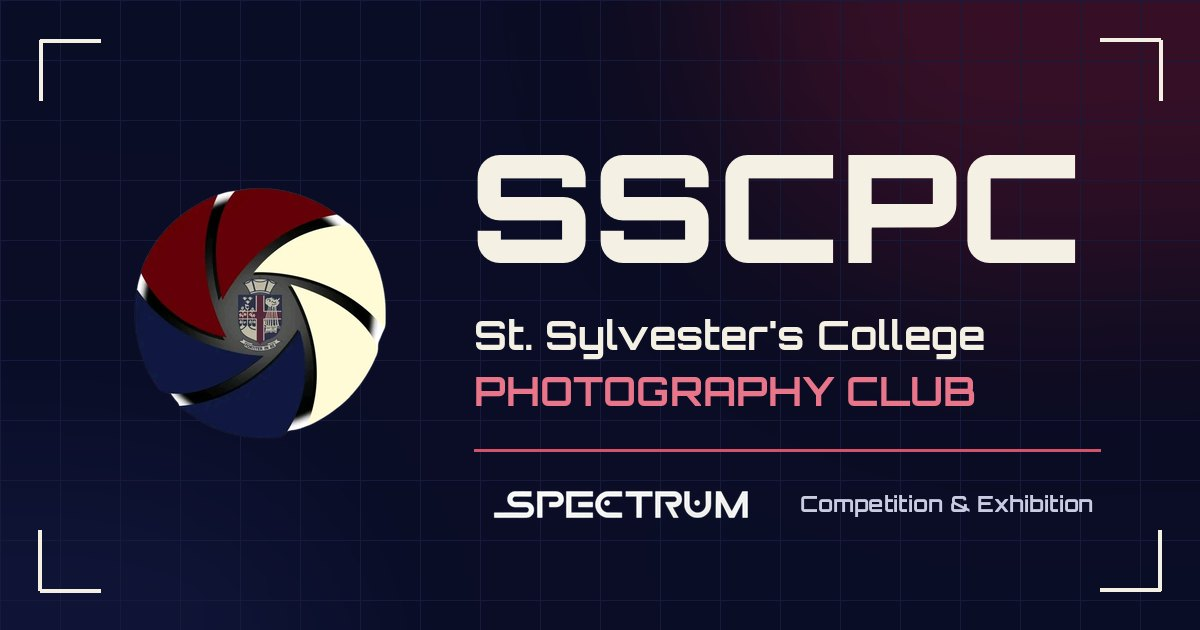
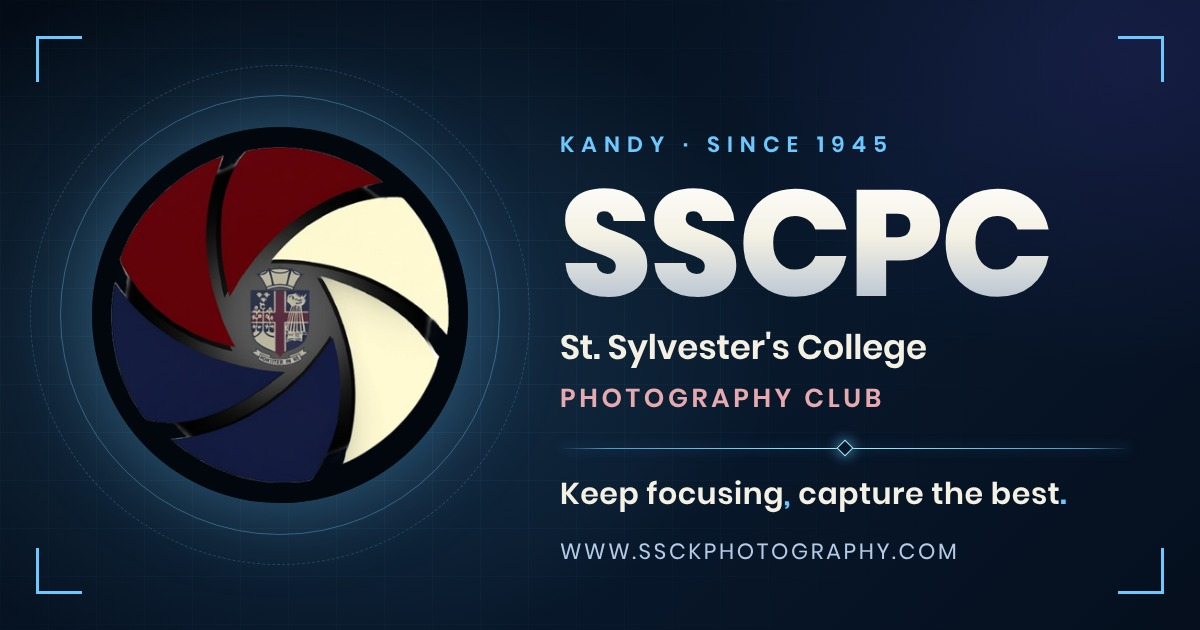
Add files via upload

diff --git a/index.html b/index.html
@@ -11,14 +11,14 @@
 <meta property="og:title" content="SSCK Photography | St. Sylvester's College Photography Club (SSCPC), Kandy">
 <meta property="og:description" content="SSCK Photography, the photography club of St. Sylvester's College, Kandy. Home of Spectrum, our photography competition and exhibition. Albums, events, members and registration.">
 <meta property="og:url" content="https://ssckphotography.com/">
-<meta property="og:image" content="https://ssckphotography.com/images/og-image.jpg">
+<meta property="og:image" content="https://ssckphotography.com/images/og-image.jpg?v=2">
 <meta property="og:image:width" content="1200">
 <meta property="og:image:height" content="630">
 <meta property="og:image:alt" content="SSCPC, St. Sylvester's College Photography Club">
 <meta name="twitter:card" content="summary_large_image">
 <meta name="twitter:title" content="SSCK Photography | St. Sylvester's College Photography Club (SSCPC), Kandy">
 <meta name="twitter:description" content="SSCK Photography, the photography club of St. Sylvester's College, Kandy. Home of Spectrum, our photography competition and exhibition. Albums, events, members and registration.">
-<meta name="twitter:image" content="https://ssckphotography.com/images/og-image.jpg">
+<meta name="twitter:image" content="https://ssckphotography.com/images/og-image.jpg?v=2">
 <script type="application/ld+json">{"@context":"https://schema.org","@graph":[{"@type":"WebSite","name":"SSCK Photography","alternateName":["ssck photography","SSCPC","St. Sylvester's College Photography Club"],"url":"https://ssckphotography.com/"},{"@type":"Organization","name":"St. Sylvester's College Photography Club","alternateName":["SSCK Photography","ssck photography","SSCPC"],"url":"https://ssckphotography.com/","logo":"https://ssckphotography.com/images/logo.png","address":{"@type":"PostalAddress","addressLocality":"Kandy","addressCountry":"LK"}}]}</script>
 <link rel="preconnect" href="https://fonts.googleapis.com">
 <link rel="preconnect" href="https://fonts.gstatic.com" crossorigin>
@@ -46,6 +46,7 @@
 <link rel="stylesheet" href="css/site-config.css">
 <link rel="stylesheet" href="css/intro-fx.css?v=6">
 <link rel="stylesheet" href="css/cta-card.css?v=1">
+<link rel="stylesheet" href="css/fx-extras.css?v=1">
 <script>document.documentElement.classList.add('loading','intro-hold');document.documentElement.dataset.theme='dark';try{localStorage.removeItem('sscpc-theme')}catch(e){}</script>
 <noscript><style>#loader{display:none}html.loading{overflow:auto}</style></noscript>
 </head>
@@ -922,6 +923,7 @@
 <script src="js/gallery.js"></script>
 <script src="js/events.js"></script>
 <script src="js/members.js"></script>
+<script src="js/fx-extras.js?v=1"></script>
 <script async src="https://cdnjs.cloudflare.com/ajax/libs/jspdf/2.5.1/jspdf.umd.min.js"></script><!-- async: only needed when a PDF is made; must not hold up the scripts after it -->
 <script src="js/pdf/text.js"></script>
 <script src="js/pdf/i18n.js"></script>
